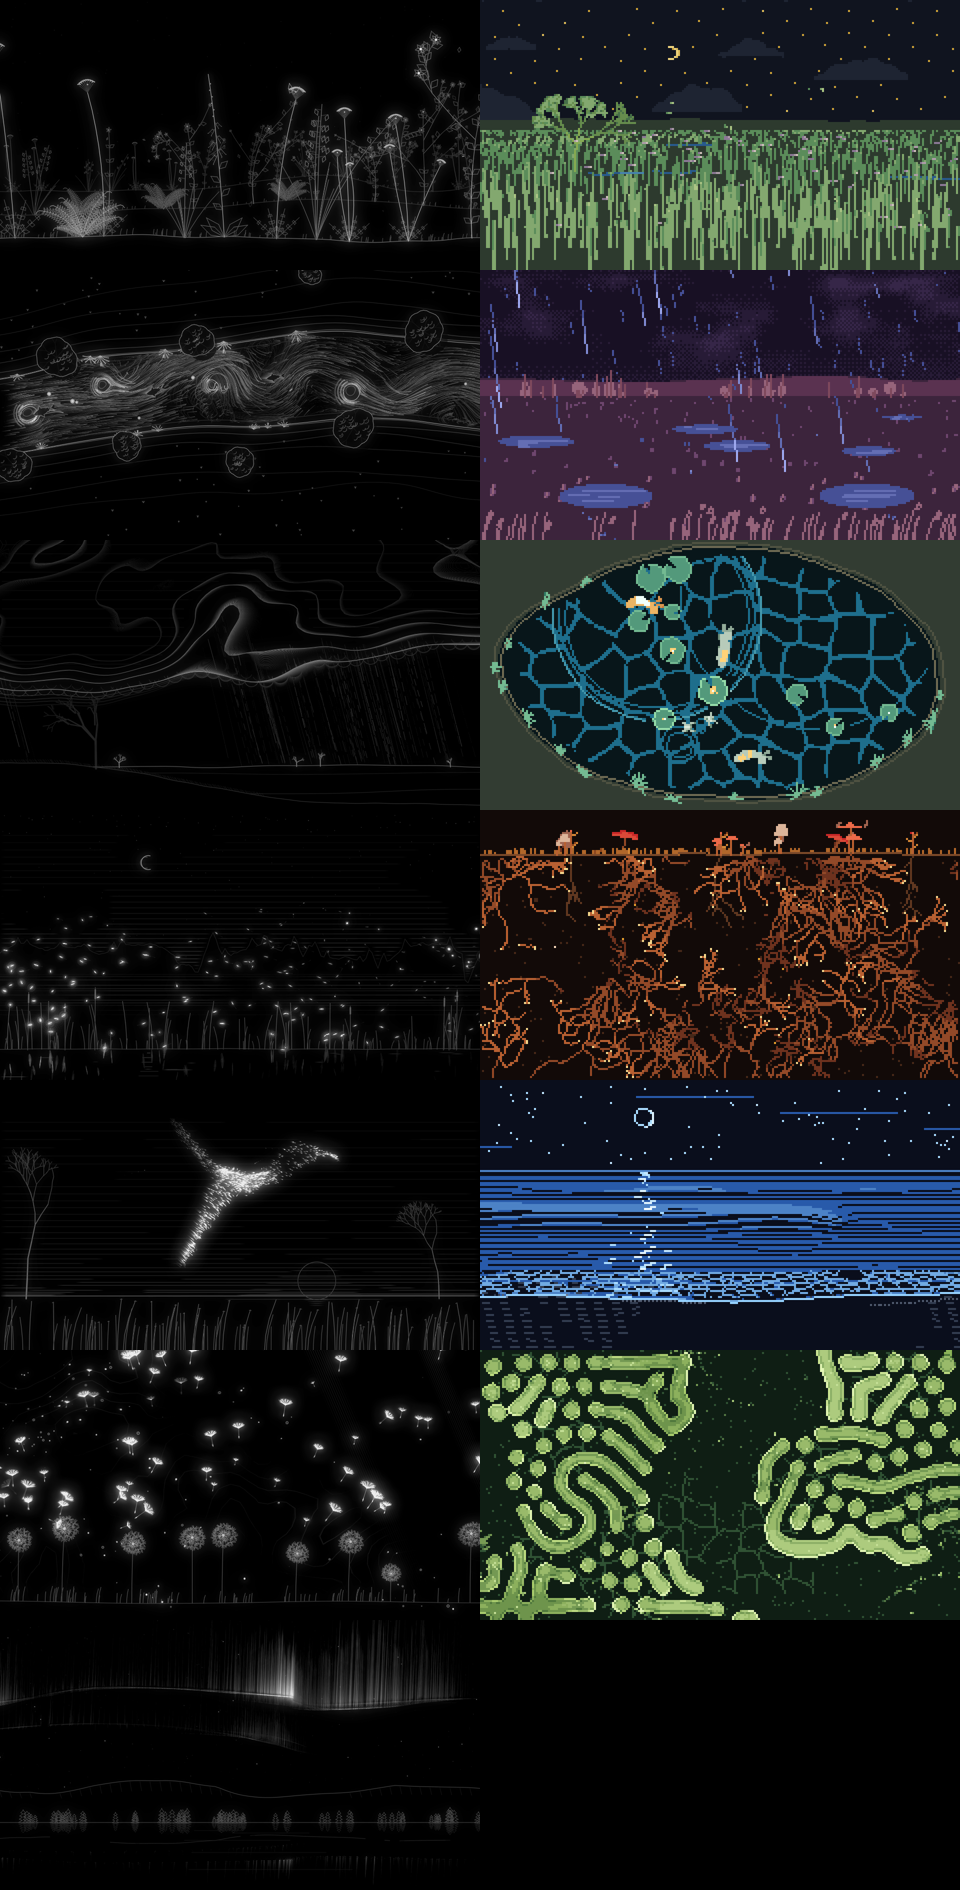
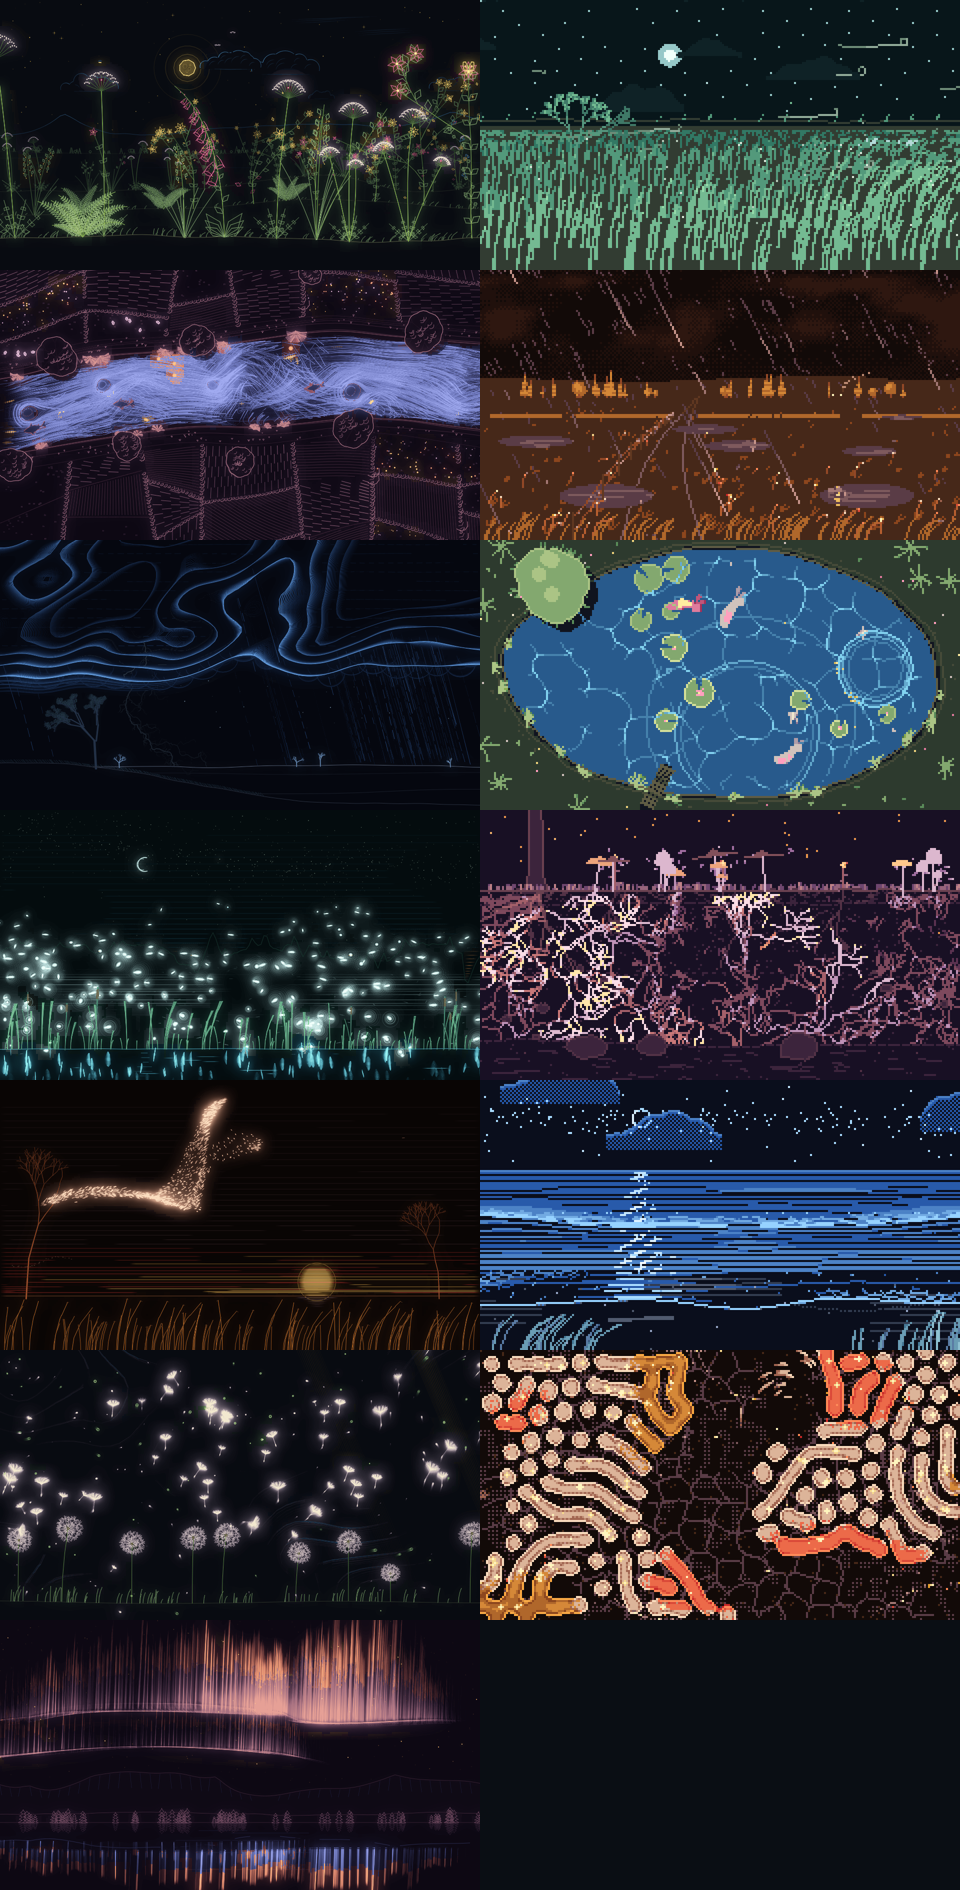
Contact sheet: Ink in colour + Pixel across palettes

diff --git a/README.md b/README.md
@@ -2,7 +2,7 @@
 
 Living, generative, nature-inspired visuals for OBS that listen to your music.
 
-![All thirteen scenes, alternating Ink and Pixel looks](docs/scenes.png)
+![All thirteen scenes, alternating Ink in colour and Pixel looks across the six palettes](docs/scenes.png)
 
 Understory adds a video source to OBS. Point it at any audio (Desktop Audio, a mic, a media source)
 and it grows a small world on screen: plants that bloom with the bass and sway in the highs, rivers
